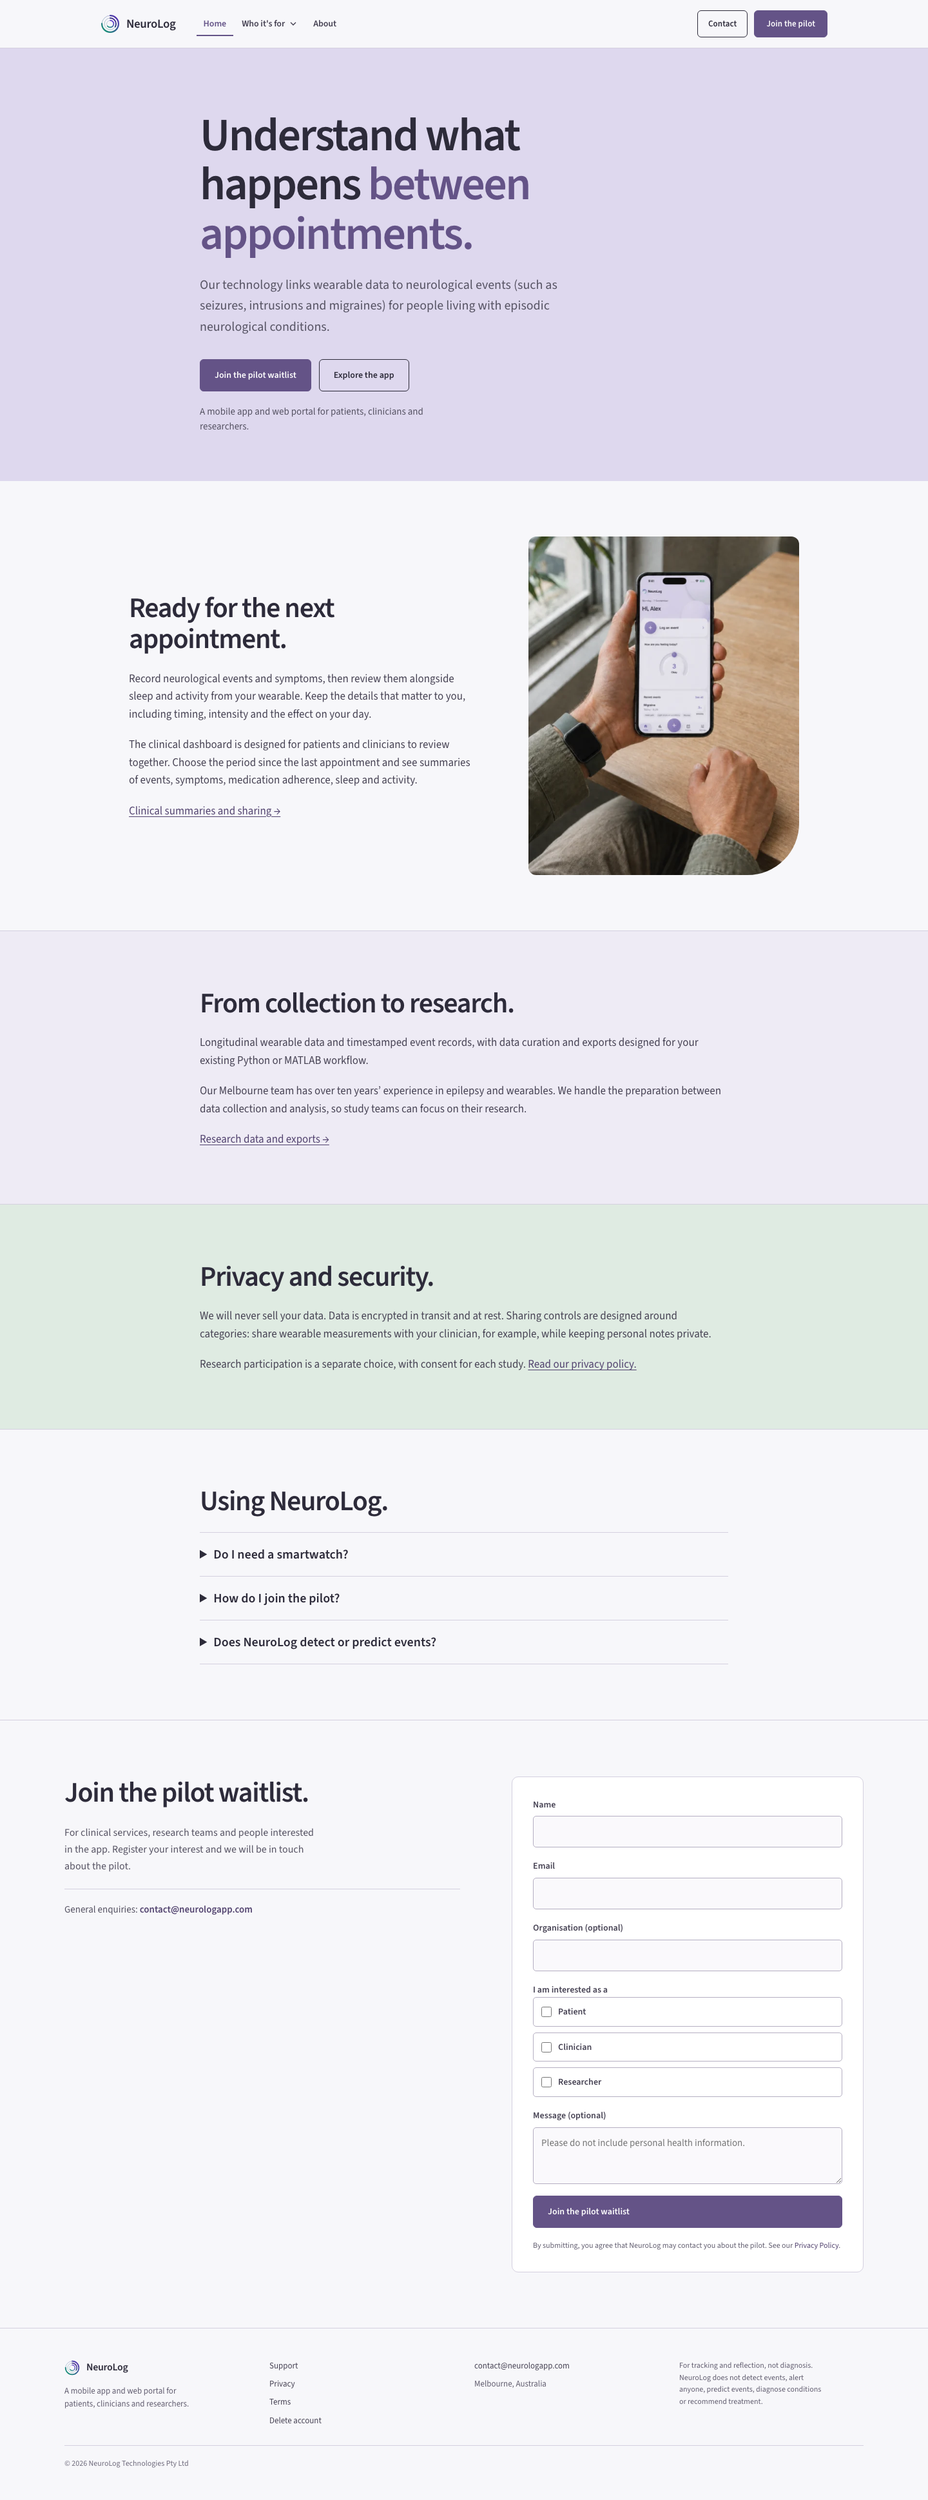
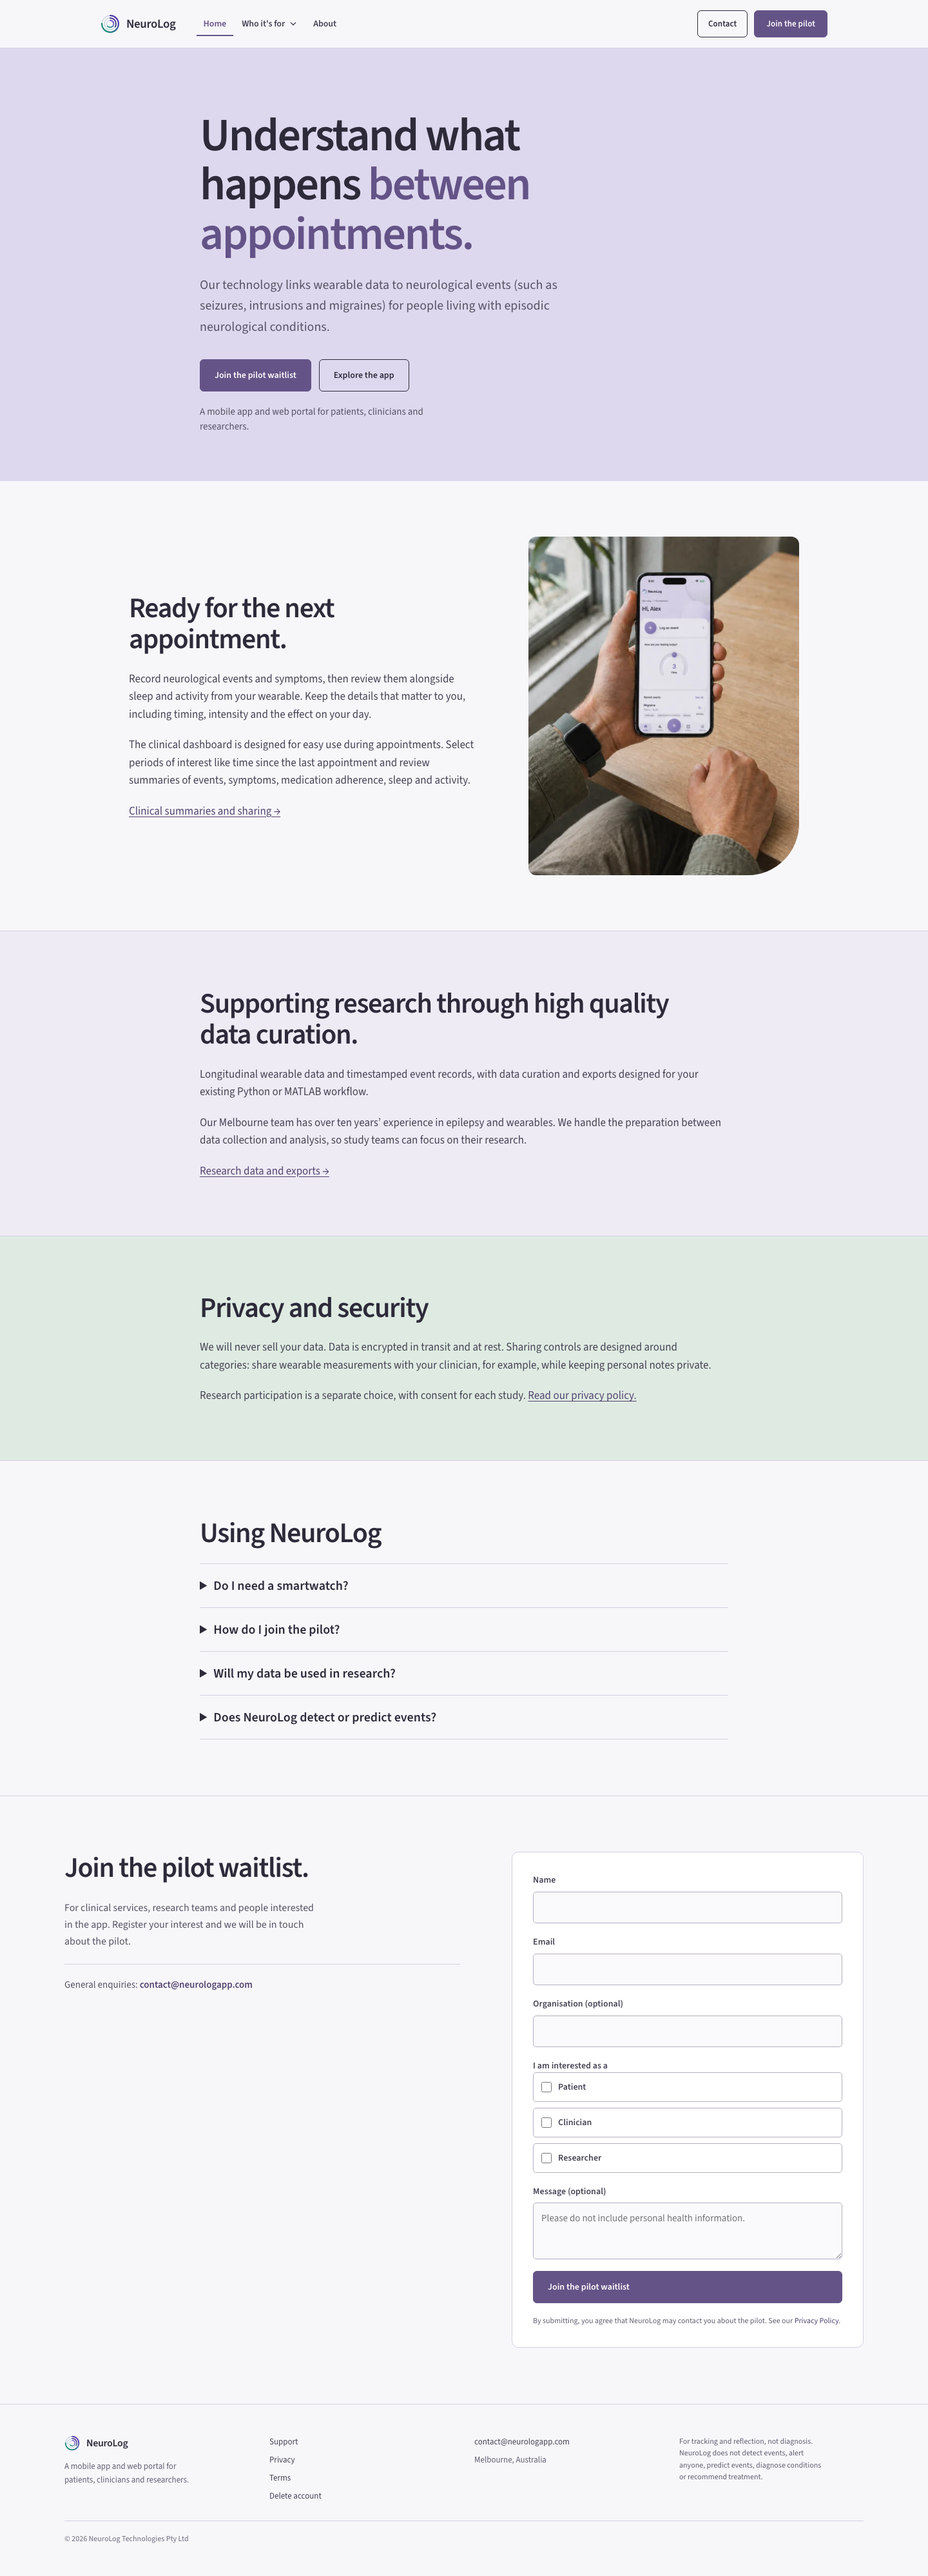
Clarify wearable connections and research consent in website copy

diff --git a/index.html b/index.html
@@ -4,14 +4,14 @@
 <head>
   <meta charset="utf-8">
   <meta name="viewport" content="width=device-width, initial-scale=1">
-  <title>NeuroLog | Neurological event tracking and wearable data</title>
+  <title>NeuroLog | Neurological tracking | Developed in Melbourne</title>
   <meta name="description" content="Track neurological events and symptoms with wearable data. NeuroLog connects patients, clinicians and researchers. Join the pilot waitlist.">
   <link rel="canonical" href="https://neurologapp.com/">
   <meta property="og:url" content="https://neurologapp.com/">
   <meta property="og:site_name" content="NeuroLog">
   <meta property="og:locale" content="en_AU">
   <link rel="icon" href="assets/neurolog-logo.svg" type="image/svg+xml">
-  <meta property="og:title" content="NeuroLog | Neurological event tracking and wearable data">
+  <meta property="og:title" content="NeuroLog | Neurological tracking | Developed in Melbourne">
   <meta property="og:description" content="Track neurological events and symptoms with wearable data. NeuroLog connects patients, clinicians and researchers. Join the pilot waitlist.">
   <meta property="og:type" content="website">
   <meta property="og:image" content="https://neurologapp.com/assets/social-preview.jpg">
@@ -123,7 +123,7 @@
           <h2 class="h2">Ready for the next appointment.</h2>
           <div class="prose">
             <p>Record neurological events and symptoms, then review them alongside sleep and activity from your wearable. Keep the details that matter to you, including timing, intensity and the effect on your day.</p>
-            <p>The clinical dashboard is designed for patients and clinicians to review together. Choose the period since the last appointment and see summaries of events, symptoms, medication adherence, sleep and activity.</p>
+            <p>The clinical dashboard is designed for easy use during appointments. Select periods of interest like time since the last appointment and review summaries of events, symptoms, medication adherence, sleep and activity.</p>
             <p><a href="for_clinicians.html">Clinical summaries and sharing →</a></p>
           </div>
         </div>
@@ -138,7 +138,7 @@
 
     <section class="section section--rule product-section soft-section">
       <div class="wrap reading-width">
-        <h2 class="h2">From collection to research.</h2>
+        <h2 class="h2">Supporting research through high quality data curation.</h2>
         <div class="prose">
           <p>Longitudinal wearable data and timestamped event records, with data curation and exports designed for your existing Python or MATLAB workflow.</p>
           <p>Our Melbourne team has over ten years’ experience in epilepsy and wearables. We handle the preparation between data collection and analysis, so study teams can focus on their research.</p>
@@ -149,7 +149,7 @@
 
     <section class="section section--rule product-section sage-section" id="your-data">
       <div class="wrap reading-width">
-        <h2 class="h2">Privacy and security.</h2>
+        <h2 class="h2">Privacy and security</h2>
         <div class="prose">
           <p>We will never sell your data. Data is encrypted in transit and at rest. Sharing controls are designed around categories: share wearable measurements with your clinician, for example, while keeping personal notes private.</p>
           <p>Research participation is a separate choice, with consent for each study. <a href="privacy.html">Read our privacy policy.</a></p>
@@ -159,15 +159,19 @@
 
     <section class="section section--rule product-section" id="questions">
       <div class="wrap reading-width">
-        <h2 class="h2">Using NeuroLog.</h2>
+        <h2 class="h2">Using NeuroLog</h2>
         <div class="faq-list">
           <details>
             <summary>Do I need a smartwatch?</summary>
-            <p>No. Event and symptom logging works without one. You can connect compatible health data through Apple Health on iPhone or Health Connect on Android. Available measurements depend on your device and permissions.</p>
+            <p>No. Event and symptom logging works without one. Connect through Apple Health on iPhone or Health Connect on Android, including compatible data from Samsung Health. Available measurements depend on your device and the permissions you allow.</p>
           </details>
           <details>
             <summary>How do I join the pilot?</summary>
-            <p>Use the form below to register your interest as a patient, clinician or researcher. We will be in touch about pilot access. Joining the waitlist does not enrol you in a research study.</p>
+            <p>Use the form below to register your interest as a patient, clinician or researcher, and we'll be in touch about pilot access.</p>
+          </details>
+          <details>
+            <summary>Will my data be used in research?</summary>
+            <p>Using NeuroLog does not automatically enrol you in a research study. Participation is optional. Before joining a study, you’ll see what data it requests and how it will be used, then choose whether to give your consent.</p>
           </details>
           <details>
             <summary>Does NeuroLog detect or predict events?</summary>

diff --git a/for_patients.html b/for_patients.html
@@ -91,7 +91,7 @@
       <div class="wrap">
         <div class="section-intro">
           <h2 class="h2">Event and symptom tracking.</h2>
-          <p>Record the timing, symptoms and impact of an event, with optional notes. Browse your history and use Insights to review event frequency, timing and intensity over a date range you choose.</p>
+          <p>Record the timing, symptoms and impact of an event, or write notes in your own words. Browse your history and use Insights to review event frequency, timing and intensity over different date ranges.</p>
         </div>
         <div class="app-walkthrough">
           <figure>
@@ -113,7 +113,7 @@
       <div class="wrap reading-width">
         <h2 class="h2">Sync your wearable data.</h2>
         <div class="prose">
-          <p>Connect through Apple Health on iPhone or Health Connect on Android. Sleep, heart rate and activity add context to the events you log. You can also use NeuroLog without a wearable.</p>
+          <p>Connect through Apple Health on iPhone or Health Connect on Android, including compatible data from Samsung Health. Sleep, heart rate and activity add context to the events you log. You can also use NeuroLog without a wearable.</p>
           <p>Available measurements depend on your device, its companion app and the permissions you allow. <a href="support.html">Help with health connections.</a></p>
         </div>
       </div>
@@ -122,7 +122,7 @@
       <div class="wrap reading-width">
         <h2 class="h2">Ready for the next appointment.</h2>
         <div class="prose">
-          <p>NeuroLog’s sharing tools are designed to give you a choice: review a concise summary with your clinician in the dashboard, or send an email export.</p>
+          <p>NeuroLog’s sharing tools let you share information with your healthcare team through a web portal, or send it directly as an email export.</p>
           <p>Choose which categories to share, such as events and wearable measurements, while keeping personal notes private. <a href="for_clinicians.html">Clinical summaries and sharing.</a></p>
         </div>
       </div>

diff --git a/about.html b/about.html
@@ -101,13 +101,11 @@
             <img src="assets/team/rachel-bw.webp" alt="Dr Rachel Stirling" width="320" height="320" loading="lazy" decoding="async">
             <h3 class="h3">Dr Rachel Stirling</h3>
             <p class="role">CEO and Research Lead</p>
-            <p class="founder-bio">Rachel studies biological rhythms in epilepsy and seizure forecasting. She leads NeuroLog’s research direction.<br><a href="https://clarkinstitute.unimelb.edu.au/news/december-2022-researchers-profile">Rachel’s research background</a></p>
           </div>
           <div>
             <img src="assets/team/michaela-bw.webp" alt="Dr Michaela Vranic-Peters" width="320" height="320" loading="lazy" decoding="async">
             <h3 class="h3">Dr Michaela Vranic-Peters</h3>
             <p class="role">CTO and Software Lead</p>
-            <p class="founder-bio">Michaela’s research explores brain dynamics and state transitions. She leads NeuroLog’s software development.<br><a href="https://medicine.unimelb.edu.au/research-groups/medicine-research/st-vincents-hospital/neural-engineering/characterising-brain-states-and-their-transitions-in-epilepsy">Michaela’s research background</a></p>
           </div>
           <div>
             <img src="assets/team/dean-bw.webp" alt="Dr Dean Freestone" width="320" height="320" loading="lazy" decoding="async">

diff --git a/for_researchers.html b/for_researchers.html
@@ -84,7 +84,7 @@
   <main id="main">
     <section class="section section--page-head">
       <div class="wrap reading-width page-intro">
-        <h1 class="display display--page">From collection to research.</h1>
+        <h1 class="display display--page">Supporting research through high quality data curation.</h1>
         <p class="lead">Longitudinal wearable data with timestamped event and symptom records. NeuroLog brings
           collection, time alignment and export into one workflow, reducing the preparation research teams need to
           manage.</p>
@@ -100,7 +100,7 @@
             organised by coded participant IDs bring long-term records together, with individual views for closer
             review.</p>
           <p>Select participants, date ranges and data streams. Check coverage and recording gaps while collection
-            is running, then choose the measures and time resolution your analysis needs.</p>
+            is running, and export the measures and time resolution your analysis needs.</p>
         </div>
       </div>
     </section>

diff --git a/for_clinicians.html b/for_clinicians.html
@@ -98,7 +98,7 @@
           <p>The clinical dashboard is designed for use during the appointment, even if you are signing in for the
             first time when your patient arrives.</p>
           <p>Open a connected patient's record. Choose the date of their last appointment or any range of interest
-            to review changes and periods of stability together.</p>
+            to review periods of change or stability together.</p>
         </div>
       </div>
     </section>

diff --git a/.github/review/README.md b/.github/review/README.md
@@ -4,6 +4,8 @@ This branch contains the proposed website design and copy. The SEO update is alr
 
 The homepage opens with the headline and original description of seizures, intrusions and migraines. The phone photo sits in “Ready for the next appointment”: beside the copy on desktop and after it on phones. Founders’ photography stays on About.
 
+The homepage title is “NeuroLog | Neurological tracking | Developed in Melbourne”. The health connection copy names compatible Samsung Health data through Health Connect. A research FAQ explains that app use does not automatically enrol anyone in a study and that participation requires consent.
+
 The design uses Source Sans 3 with the approved lavender and sage palette, concise product copy, app screenshots, and short clinical/research tables. Navigation retains the audience pages and About, with Support, Privacy, Terms and Delete account in the footer. Pilot enquiries still use the existing service.
 
 ## Open the full site
